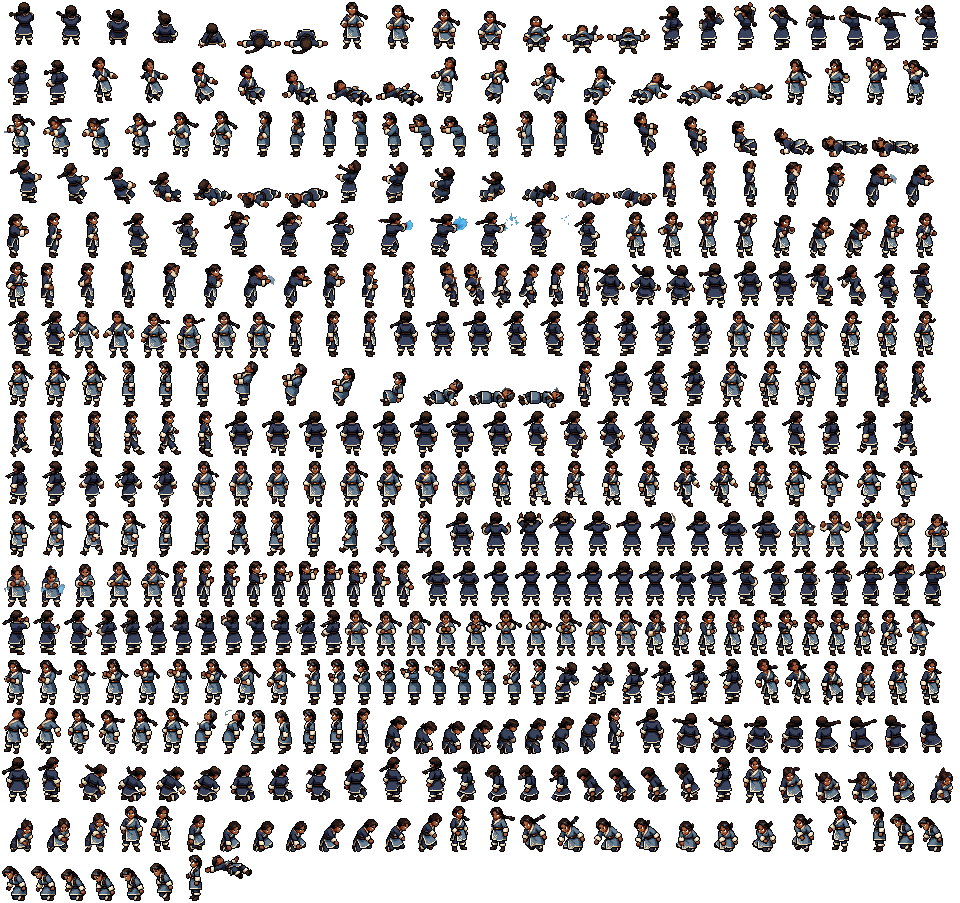
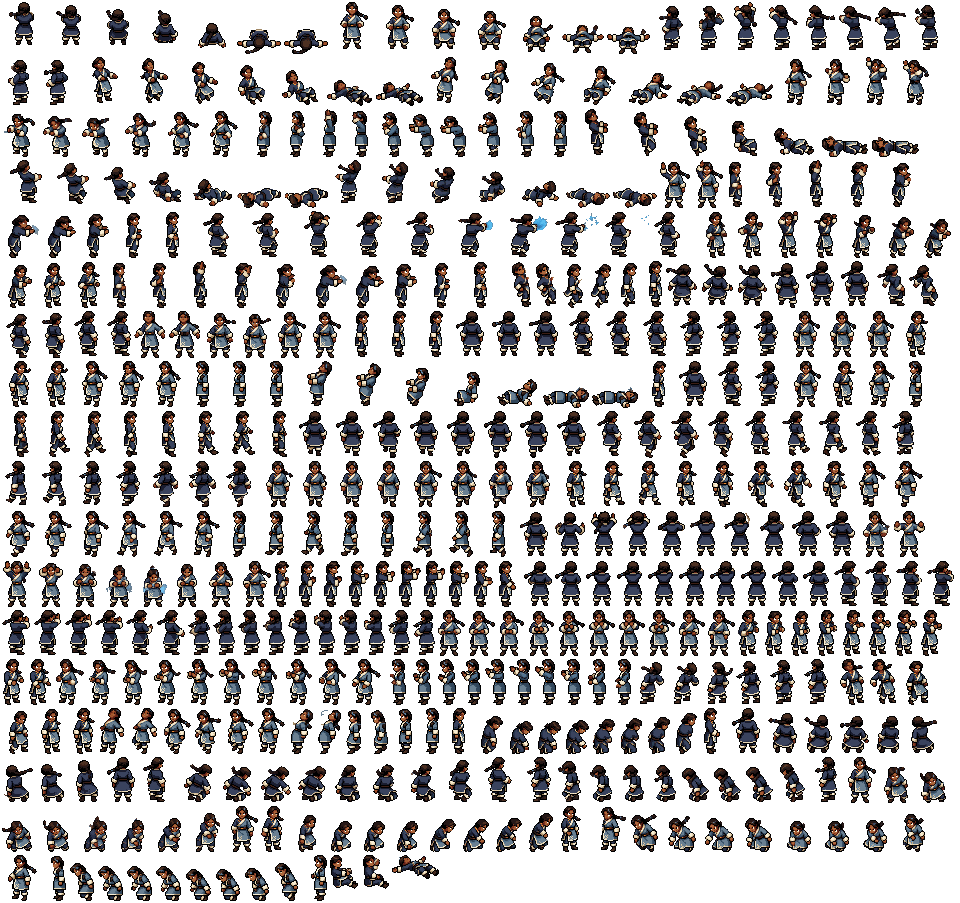
Pack the riverside tea and wave into Kaya's and Sura's top-down sheets
The packer takes two cels of one take in one heading for each pose and
stands it on its own lowest ink row, so the seated body sits on the
foot line. The sheet data carries them beside the legacy cast, so the
manifest resolves tea and wave as soon as the atlas loads instead of
falling back to the idle.

Claude-Session: https://claude.ai/code/session_01H8JDTPYztrZvUL5HBCK6eR

diff --git a/scripts/art/topdown/pack-sheets.ts b/scripts/art/topdown/pack-sheets.ts
@@ -187,7 +187,29 @@ export interface FigureSpec {
   /** The pose the legacy mirrored `cast` plays (its east heading). */
   readonly cast?: string;
   readonly timing: Timing;
+  /**
+   * The riverside's legacy poses (`VillageLife`): the seated tea and the friendly wave, each two cels of one take in
+   * one heading, drawn mirrored by the actor's facing like the legacy cast (`prototypes/topdown/tools/t14riverside.py`).
+   */
+  readonly riverside?: Readonly<Record<RiversidePose, RiversideTake>>;
 }
+
+/** The two unheaded poses the riverside asks a sheet for. */
+type RiversidePose = 'tea' | 'wave';
+interface RiversideTake {
+  readonly anim: string;
+  readonly heading: Heading;
+  /** The take's two cels: the held pose and its pair (the sip; the hand swung across). */
+  readonly cels: readonly [number, number];
+}
+/**
+ * How each riverside pose plays (the clip vocabulary's two cels): the tea holds each cel four seconds, the cup in the
+ * lap then at the lips; the wave swings at four a second, the frame named by the choreography (`waveDrawing`).
+ */
+const RIVERSIDE_TIMING: Readonly<Record<RiversidePose, { fps: number }>> = {
+  tea: { fps: 0.25 },
+  wave: { fps: 4 },
+};
 
 const ROSTER: readonly FigureSpec[] = [
   {
@@ -208,6 +230,14 @@ const ROSTER: readonly FigureSpec[] = [
     },
     cast: 'jab',
     timing: 'bend',
+    riverside: {
+      tea: { anim: 'custom-seated tea: she is already sit@ff3d70', heading: 'east', cels: [1, 3] },
+      wave: {
+        anim: 'custom-a big friendly hello wave: sta@9c9d91',
+        heading: 'south',
+        cels: [1, 2],
+      },
+    },
   },
   {
     name: 'sura',
@@ -226,6 +256,14 @@ const ROSTER: readonly FigureSpec[] = [
     },
     cast: 'attack',
     timing: 'blow',
+    riverside: {
+      tea: { anim: 'custom-seated tea: she sits cross-leg@2af7bc', heading: 'east', cels: [3, 5] },
+      wave: {
+        anim: 'custom-a big friendly hello wave: sta@782513',
+        heading: 'south',
+        cels: [1, 2],
+      },
+    },
   },
   {
     name: 'bo',
@@ -859,6 +897,9 @@ export interface SheetData {
   readonly cast: ClipOut | null;
   readonly clipData: boolean;
   readonly actions: boolean;
+  /** The riverside's seated tea and wave (`FigureSpec.riverside`), for a sheet that carries them. */
+  readonly tea?: ClipOut;
+  readonly wave?: ClipOut;
   /** Driller tread geometry measured from alpha>=128 in the bottom 16 ink rows of each static heading. */
   readonly treadGrounding?: readonly {
     readonly spanPx: number;
@@ -1058,6 +1099,32 @@ function figureSheet(spec: FigureSpec): Sheet {
     const cels = load((a[DIR.east] ?? []).slice(0, spec.actions[spec.cast]?.frames));
     cast = trimClip('cast', cels, source.frameMs ?? [], { events: source.events ?? { hit: 0 } });
   }
+  // The riverside poses stand (or sit) on their own lowest ink row: a seated body on the foot line, not on the
+  // standing take's, so the seat lands on the ground and the shadow pool under it.
+  const riverside: Partial<Record<RiversidePose, ClipOut>> = {};
+  for (const [pose, take] of Object.entries(spec.riverside ?? {}) as [
+    RiversidePose,
+    RiversideTake,
+  ][]) {
+    const files = anim(take.anim)[DIR[take.heading]] ?? [];
+    const cels = load(
+      take.cels.map((i) => {
+        const file = files[i];
+        if (!file) throw new Error(`${spec.folder}: ${pose} has no ${DIR[take.heading]} cel ${i}`);
+        return file;
+      }),
+    );
+    const seat = Math.max(...cels.map(groundOf));
+    const t = trimmed(cels, { x: COLUMN, y: seat });
+    t.images.forEach((im, i) => add(pose, i, im));
+    riverside[pose] = {
+      frames: t.images.map((_, i) => `${spec.key}/${pose}/${i}`),
+      fps: RIVERSIDE_TIMING[pose].fps,
+      loop: true,
+      frameSize: t.frameSize,
+      anchor: { x: round6(t.anchor.x), y: round6(t.anchor.y) },
+    };
+  }
   const celMs =
     Math.round((spec.stride / Math.max(1, walkCels.east.length) / WALK_PX_PER_S) * 1000 * 1000) /
     1000;
@@ -1080,6 +1147,7 @@ function figureSheet(spec: FigureSpec): Sheet {
       cast,
       clipData: Object.keys(clips).length > 0,
       actions: Object.keys(actions).length > 0,
+      ...riverside,
     },
   };
 }
@@ -1404,8 +1472,9 @@ export async function dataModule(data: Record<string, SheetData>): Promise<strin
     ' *',
     " * The top-down figure sheets (ADR 0104 T2): each sheet's pages, its locomotion frame and foot anchor",
     ' * (idle, walk and rest share it), the idle and walk cels per heading (`HEADINGS` order), the walk timing',
-    " * and the legacy cast. The hits and knockouts are in each sheet's clip file, the per-heading abilities in",
-    ' * its actions file, both beside its atlas under `public/art/topdown/`.',
+    " * and the legacy cast, and the riverside's seated tea and wave where a sheet has them. The hits and knockouts",
+    " * are in each sheet's clip file, the per-heading abilities in its actions file, both beside its atlas under",
+    ' * `public/art/topdown/`.',
     ' */',
     "import type { ClipDef } from './clips';",
     '',
@@ -1427,6 +1496,8 @@ export async function dataModule(data: Record<string, SheetData>): Promise<strin
     '  readonly cast: ClipDef | null;',
     '  readonly clipData: boolean;',
     '  readonly actions: boolean;',
+    '  readonly tea?: ClipDef;',
+    '  readonly wave?: ClipDef;',
     '  readonly treadGrounding?: readonly { readonly spanPx: number; readonly centerXFromAnchorPx: number; readonly baselineYFromAnchorPx: number }[];',
     '}',
     '',

diff --git a/src/content/assets/topdownSheets.ts b/src/content/assets/topdownSheets.ts
@@ -3,8 +3,9 @@
  *
  * The top-down figure sheets (ADR 0104 T2): each sheet's pages, its locomotion frame and foot anchor
  * (idle, walk and rest share it), the idle and walk cels per heading (`HEADINGS` order), the walk timing
- * and the legacy cast. The hits and knockouts are in each sheet's clip file, the per-heading abilities in
- * its actions file, both beside its atlas under `public/art/topdown/`.
+ * and the legacy cast, and the riverside's seated tea and wave where a sheet has them. The hits and knockouts
+ * are in each sheet's clip file, the per-heading abilities in its actions file, both beside its atlas under
+ * `public/art/topdown/`.
  */
 import type { ClipDef } from './clips';
 
@@ -55,6 +56,8 @@ export interface TopdownSheetData {
   readonly cast: ClipDef | null;
   readonly clipData: boolean;
   readonly actions: boolean;
+  readonly tea?: ClipDef;
+  readonly wave?: ClipDef;
   readonly treadGrounding?: readonly {
     readonly spanPx: number;
     readonly centerXFromAnchorPx: number;
@@ -84,6 +87,20 @@ export const TOPDOWN_SHEETS: Readonly<Record<TopdownName, TopdownSheetData>> = {
     },
     clipData: true,
     actions: true,
+    tea: {
+      frames: ['unit.fire.kaya/tea/0', 'unit.fire.kaya/tea/1'],
+      fps: 0.25,
+      loop: true,
+      frameSize: { w: 26, h: 39 },
+      anchor: { x: 0.5, y: 0.974359 },
+    },
+    wave: {
+      frames: ['unit.fire.kaya/wave/0', 'unit.fire.kaya/wave/1'],
+      fps: 4,
+      loop: true,
+      frameSize: { w: 27, h: 47 },
+      anchor: { x: 0.518519, y: 0.978723 },
+    },
   },
   sura: {
     pages: 1,
@@ -106,6 +123,20 @@ export const TOPDOWN_SHEETS: Readonly<Record<TopdownName, TopdownSheetData>> = {
     },
     clipData: true,
     actions: true,
+    tea: {
+      frames: ['unit.water.sura/tea/0', 'unit.water.sura/tea/1'],
+      fps: 0.25,
+      loop: true,
+      frameSize: { w: 30, h: 36 },
+      anchor: { x: 0.366667, y: 0.972222 },
+    },
+    wave: {
+      frames: ['unit.water.sura/wave/0', 'unit.water.sura/wave/1'],
+      fps: 4,
+      loop: true,
+      frameSize: { w: 32, h: 50 },
+      anchor: { x: 0.46875, y: 0.98 },
+    },
   },
   bo: {
     pages: 1,

diff --git a/src/content/assets/manifest.ts b/src/content/assets/manifest.ts
@@ -319,6 +319,9 @@ export function topdownSheet(name: TopdownName, key: string, palette: string): S
     msPerTile[heading] = t.walkMsPerTile;
   });
   if (t.cast) clips.cast = t.cast;
+  // The riverside's seated tea and wave (Kaya and Sura), mirrored by facing like the cast.
+  if (t.tea) clips.tea = t.tea;
+  if (t.wave) clips.wave = t.wave;
   const eastWalk = t.walkCels[0] ?? 0;
   return {
     kind: 'sheet',
